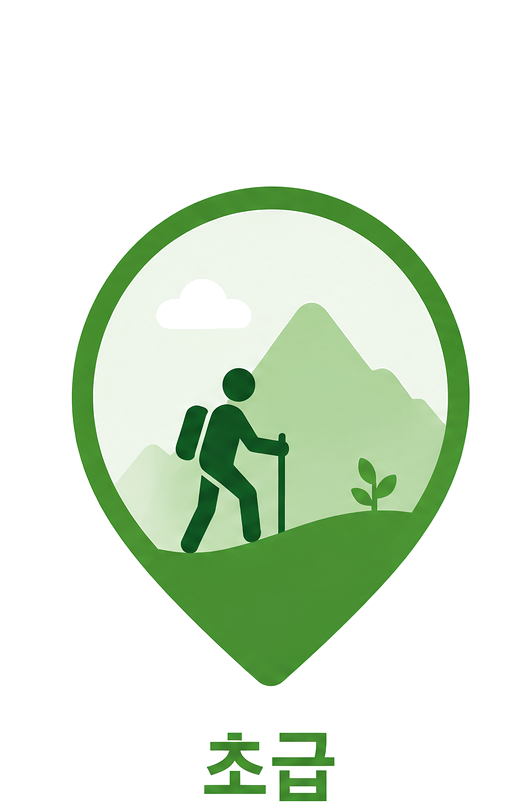
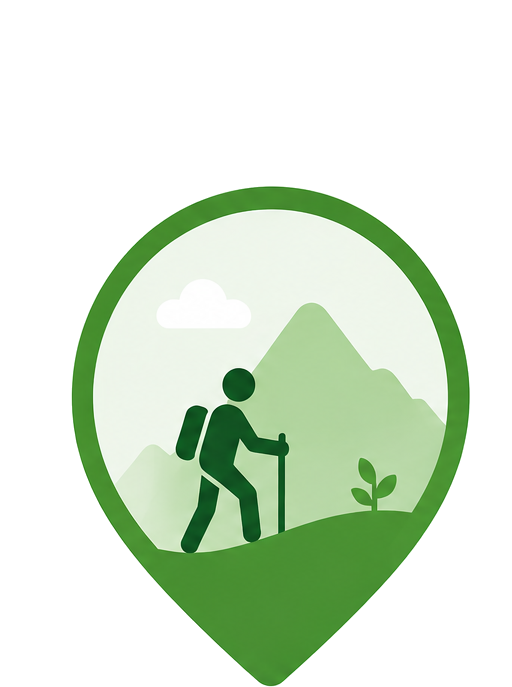
feat: 마커 이미지 텍스트 제거 및 범례 UI 개선
- 마커 이미지에서 초급/중급/고급 텍스트 제거 (핀 아이콘만 유지)
- 범례 디자인 다크 카드 스타일로 개선 (AllTrails 참고)
- 범례 아이콘 강조, 가로 배치로 변경
- 로고 아래 태그라인 제거

Changed region(s): [[0.125, 0.214, 0.9375, 1.0]]

diff --git a/frontend/src/styles.css b/frontend/src/styles.css
@@ -2566,40 +2566,85 @@ p {
   top: 12px;
   right: 12px;
   z-index: 1000;
-  display: flex;
-  flex-direction: column;
-  gap: 11px;
-  background: rgba(255,255,255,.95);
-  backdrop-filter: blur(6px);
+  background: rgba(10, 22, 18, 0.82);
+  backdrop-filter: blur(14px);
+  -webkit-backdrop-filter: blur(14px);
+  border: 1px solid rgba(255,255,255,.10);
   border-radius: 16px;
-  padding: 16px 21px;
-  font-size: 20px;
-  font-weight: 600;
-  color: #1a2e1a;
-  box-shadow: 0 2px 12px rgba(0,0,0,.18);
+  overflow: hidden;
+  box-shadow: 0 8px 32px rgba(0,0,0,.30), 0 2px 8px rgba(0,0,0,.18);
+  min-width: 120px;
 }
 
-.map-legend-item {
-  display: flex;
-  align-items: center;
-  gap: 13px;
+.map-legend-header {
+  font-size: 9px;
+  font-weight: 800;
+  letter-spacing: 0.14em;
+  text-transform: uppercase;
+  color: rgba(255,255,255,.35);
+  padding: 11px 14px 9px;
+  border-bottom: 1px solid rgba(255,255,255,.07);
 }
+
+.map-legend-body {
+  display: flex;
+  flex-direction: row;
+  padding: 16px 10px 18px;
+  gap: 0;
+}
+
+.mli-col {
+  display: flex;
+  flex-direction: column;
+  align-items: center;
+  gap: 10px;
+  flex: 1;
+  padding: 0 8px;
+  cursor: default;
+  transition: transform 0.15s;
+}
+
+.mli-col:hover { transform: translateY(-3px); }
+
+.mli-icon {
+  width: 57px;
+  height: 76px;
+  object-fit: contain;
+  filter: drop-shadow(0 4px 10px rgba(0,0,0,.45));
+  transition: filter 0.15s;
+}
+
+.mli-col:hover .mli-icon {
+  filter: drop-shadow(0 6px 16px rgba(0,0,0,.6));
+}
+
+.mli-divider {
+  width: 1px;
+  background: rgba(255,255,255,.08);
+  margin: 6px 0;
+  align-self: stretch;
+}
+
+.mli-label {
+  font-size: 14px;
+  font-weight: 700;
+  letter-spacing: 0.06em;
+  text-transform: uppercase;
+}
+
+.mli-easy   { color: #4ade80; }
+.mli-medium { color: #60a5fa; }
+.mli-hard   { color: #c084fc; }
+.mli-rec    { color: #fbbf24; }
 
 .legend-dot {
   display: inline-block;
-  width: 10px;
-  height: 10px;
   border-radius: 50%;
+  flex-shrink: 0;
 }
 
-.map-legend-sep {
-  color: #d1d5db;
-}
-
-.map-legend-hint {
-  color: #6b7280;
-  font-size: 10px;
-}
+.map-legend-sep { color: rgba(255,255,255,.15); }
+.map-legend-hint { color: rgba(255,255,255,.4); font-size: 10px; }
 
 .guide-panel {
   display: grid;

diff --git a/frontend/src/views/GuideTab.vue b/frontend/src/views/GuideTab.vue
@@ -5,10 +5,22 @@
     <div class="guide-map">
       <div ref="overviewMapEl" class="overview-map-container" aria-label="등산 추천 지도"></div>
       <div class="map-legend">
-        <span class="map-legend-item"><img src="/marker-easy.png" width="37" height="59" style="flex-shrink:0" /><span style="color:#22c55e">초급</span></span>
-        <span class="map-legend-item"><img src="/marker-medium.png" width="37" height="59" style="flex-shrink:0" /><span style="color:#0284c7">중급</span></span>
-        <span class="map-legend-item"><img src="/marker-hard.png" width="37" height="59" style="flex-shrink:0" /><span style="color:#9333ea">고급</span></span>
-        <span v-if="hasRecommendationResult" class="map-legend-item"><i class="legend-dot" style="background:#f59e0b;box-shadow:0 0 0 2px #f59e0b55"></i>추천</span>
+<div class="map-legend-body">
+          <div class="mli-col">
+            <img src="/marker-easy.png" class="mli-icon" />
+            <span class="mli-label mli-easy">초급</span>
+          </div>
+          <div class="mli-divider"></div>
+          <div class="mli-col">
+            <img src="/marker-medium.png" class="mli-icon" />
+            <span class="mli-label mli-medium">중급</span>
+          </div>
+          <div class="mli-divider"></div>
+          <div class="mli-col">
+            <img src="/marker-hard.png" class="mli-icon" />
+            <span class="mli-label mli-hard">고급</span>
+          </div>
+        </div>
       </div>
     </div>
 

diff --git a/frontend/src/App.vue b/frontend/src/App.vue
@@ -50,7 +50,6 @@
     <nav class="tabbar" aria-label="주요 화면">
       <div class="sidebar-brand">
         <img src="/logo.png" alt="올라" class="sidebar-logo-img" />
-        <p class="sidebar-tagline">함께 오르는 안전 산행</p>
       </div>
       <router-link to="/guide" class="tabbar-item" active-class="active">
         <svg viewBox="0 0 24 24" fill="none" stroke="currentColor" stroke-width="2" stroke-linecap="round" stroke-linejoin="round"><polygon points="3 6 9 3 15 6 21 3 21 18 15 21 9 18 3 21"></polygon><line x1="9" y1="3" x2="9" y2="21"></line><line x1="15" y1="3" x2="15" y2="21"></line></svg>

diff --git a/frontend/src/composables/useLeafletMap.js b/frontend/src/composables/useLeafletMap.js
@@ -273,9 +273,9 @@ export function useLeafletMap() {
     const ICONS = { easy: '/marker-easy.png', medium: '/marker-medium.png', hard: '/marker-hard.png' };
     const iconUrl = ICONS[course.difficulty] ?? '/marker-easy.png';
     const opacity = course._muted ? 0.3 : 1;
-    // 이미지 비율 약 1:1.57 (텍스트 제거 후)
+    // 이미지 비율 약 1:1.34 (512x687)
     const w = isSelected ? 48 : (course._highlighted ? 40 : 34);
-    const h = Math.round(w * 1.57);
+    const h = Math.round(w * 1.34);
 
     let filterVal;
     if (isSelected) {
